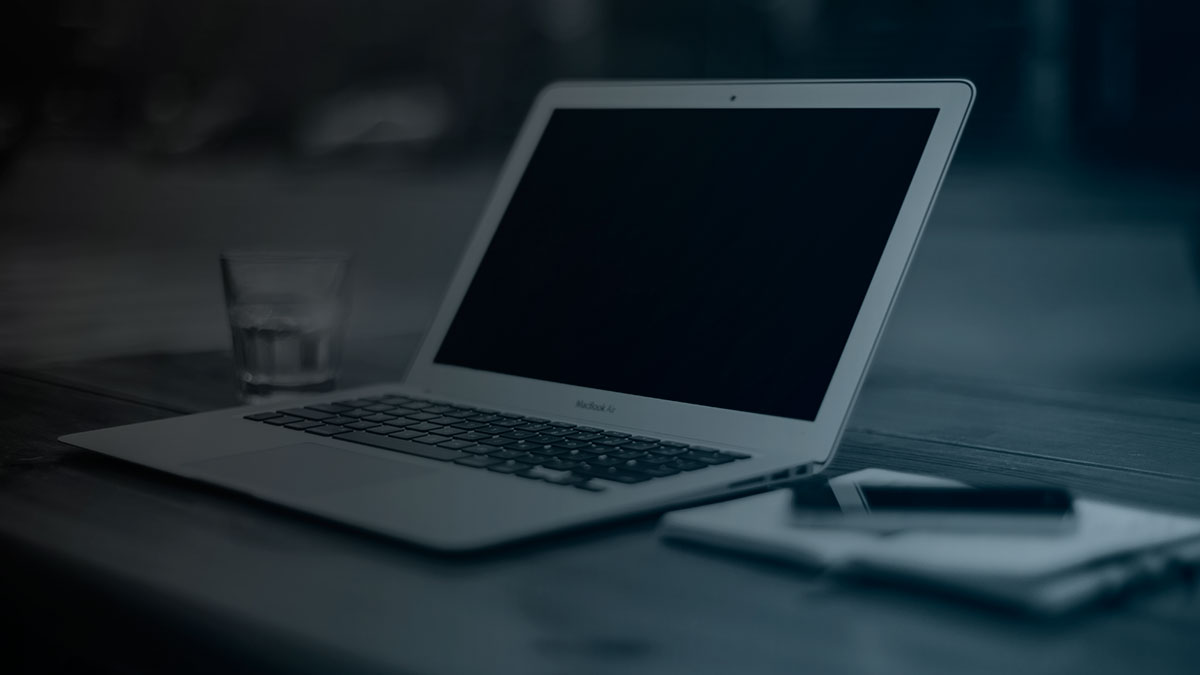
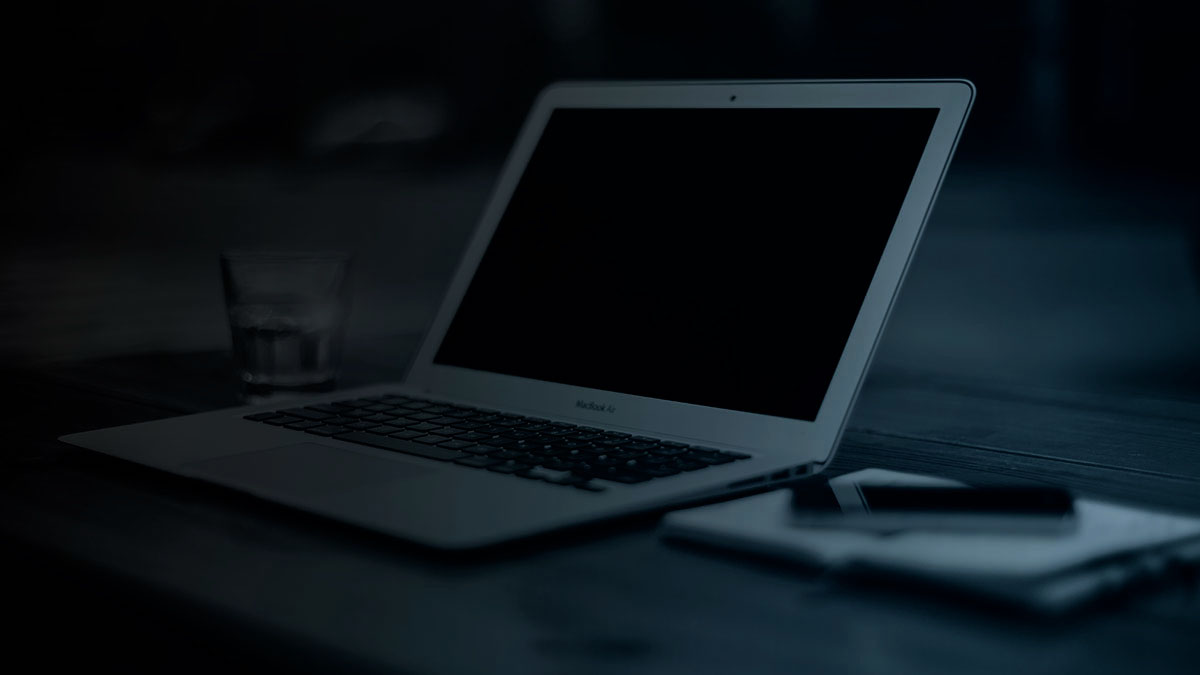
Changes in background images and styles for different devices

diff --git a/index.html b/index.html
@@ -25,23 +25,24 @@
 <!--banner-->
 <div id="top" class="banner">
 	<div class="container">
-		<div class="col-md-6 col-sm-12 col-xs-12 b-part1">
-			<img src="images/Personal_Profile_cropped.jpg" alt=" Utsav Dholakia " />
+		<div class="col-md-offset-6 col-sm-offset-6 col-xs-offset-8 b-part1">
+			<!--<img src="images/Personal_Profile_cropped.jpg" alt=" Utsav Dholakia " />-->
 			<h1>Utsav Dholakia</h1>
 			<h2>Software Developer</h2>
+			<a href="https://www.linkedin.com/in/utsavd" target="_blank"><i class="fa fa-linkedin" aria-hidden="true"></i></a>
+			<a href="https://github.com/utsav-dholakia" target="_blank"><i class="fa fa-github" aria-hidden="true"></i></a>
+			<a href="mailto:utsav.dholakia@outlook.com" target="_blank"><i class="fa fa-envelope" aria-hidden="true"></i></a>
 		</div>
-		<div class="col-md-3 col-sm-6 col-xs-6 b-part2">
+		<!--<div class="col-md-3 col-sm-6 col-xs-6 b-part2">
 			<h3>Contact</h3>
 			<h4><a href="mailto:utsav.dholakia@outlook.com">utsav.dholakia@outlook.com</a></h4>
 			<h4 class="agile"><a href="tel:+1-469-734-5749">+1 (469)734-5749</a></h4>
 			<h4>Dallas,TX</a></h4>
-		</div>
-		<div class="col-md-3 col-sm-6 col-xs-6 b-part3">
-			<h3>Follow</h3>
-			<a href="https://www.linkedin.com/in/utsavd" target="_blank"><i class="fa fa-linkedin" aria-hidden="true"></i></a>
-			<a href="https://github.com/utsav-dholakia" target="_blank"><i class="fa fa-github" aria-hidden="true"></i></a>
-			<a href="https://www.facebook.com/utsav.dholakia" target="_blank"><i class="fa fa-facebook" aria-hidden="true"></i></a>
-		</div>
+		</div>-->
+			<!--<div class="col-md-offset-6 col-sm-offset-6 col-xs-offset-8 b-part3">
+
+		<a href="https://www.facebook.com/utsav.dholakia" target="_blank"><i class="fa fa-facebook" aria-hidden="true"></i></a>
+		</div>-->
 		<!--<div class="clearfix"></div>
 		<div class="scrollButton" style="float:right"><a href="#aboutMe" class="smoothScroll"><i class="fa fa-arrow-circle-down" aria-hidden="true"></i></a></div>-->
 	</div>
@@ -434,44 +435,6 @@
 		</div>
 	</div>
 -->
-<!-- //blog -->
- <div class="modal fade" id="myModal" role="dialog">
-    <div class="modal-dialog">
-		<div class="modal-content">
-			<div class="modal-header">
-				 <button type="button" class="close" data-dismiss="modal">&times;</button>
-				 <h4 class="modal-title">Contrary to popular belief</h4>
-			</div>
-			<div class="modal-body">
-					<img src="images/b1.jpg "alt=" " />
-				  <p>Lorem Ipsum is simply dummy text of the printing and typesetting industry. Lorem Ipsum has been the industry's standard dummy text ever since the 1500s, when an unknown printer took a galley of type and scrambled it to make a type specimen book. It has survived not only five centuries, but also the leap into electronic typesetting, remaining essentially unchanged. It was popularised in the 1960s with the release.</p>
-			</div>
-			<div class="modal-footer">
-				  <button type="button" class="btn btn-default" data-dismiss="modal">Close</button>
-			 </div>
-
-		</div>
-	</div>
-</div>
-
- <div class="modal fade" id="myModal2" role="dialog">
-    <div class="modal-dialog">
-		<div class="modal-content">
-			<div class="modal-header">
-				 <button type="button" class="close" data-dismiss="modal">&times;</button>
-				 <h4 class="modal-title">The standard chunk</h4>
-			</div>
-			<div class="modal-body">
-					<img src="images/b2.jpg "alt=" " />
-				  <p>Lorem Ipsum is simply dummy text of the printing and typesetting industry. Lorem Ipsum has been the industry's standard dummy text ever since the 1500s, when an unknown printer took a galley of type and scrambled it to make a type specimen book. It has survived not only five centuries, but also the leap into electronic typesetting, remaining essentially unchanged. It was popularised in the 1960s with the release.</p>
-			</div>
-			<div class="modal-footer">
-				  <button type="button" class="btn btn-default" data-dismiss="modal">Close</button>
-			 </div>
-
-		</div>
-	</div>
-</div>
 <!--contact-->
 <div id="contact" class="contact">
 	<div class="container">

diff --git a/css/style.css b/css/style.css
@@ -67,9 +67,9 @@ img {
 /*-- banner --*/
 .banner{
 	padding:95px 0px;
-	/*background:url(../images/banner6.jpg) no-repeat 0px 0px;*/
+	background:url(../images/Personal_Profile_cover1.JPG) no-repeat 0px 0px;
 	background-size:cover;
-	min-height:350px;
+	min-height:400px;
 	background-color: #722;
 }
 .b-part1{
@@ -80,19 +80,20 @@ img {
 	border-radius: 25%;
 }
 .b-part1 h1{
-	font-size:22px;
+	font-size:42px;
 	color:#fff;
 	margin-top:15px;
 }
 .b-part1 h2{
-	font-size:16px;
+	font-size:24px;
 	color:#fff;
 	margin-top:10px;
 }
 .b-part2 h3,.b-part3 h3,.b-part4 h3{
 	color:#fff;
-	font-size:28px;
-	margin-bottom:25px;
+	font-size:20px;
+	margin-top:30px;
+	margin-bottom: 10px;
 }
 .b-part2 h4{
 	font-size:14px;
@@ -108,13 +109,13 @@ h4.agile{
 .b-part3{
 	text-align:center;
 }
-.b-part3 .fa {
+.b-part1 .fa {
     color: #fff;
     font-size: 20px;
     padding: 10px;
     border: 2px solid #fff;
-    width: 21%;
-    margin: 0px 8px;
+    /*width: 15%;*/
+    margin: 20px 8px;
     text-align: center;
 	-webkit-transition: all 0.5s;
     -moz-transition: all 0.5s;
@@ -122,21 +123,26 @@ h4.agile{
     -o-transition: all 0.5s;
     transition: all 0.5s;
 }
-.b-part3 .fa-facebook:hover{
+.b-part1 .fa-facebook:hover{
 	color:#ffffff;
 	background-color: #3b5998;
 	border: 2px solid #3b5998;
 }
-.b-part3 .fa-linkedin:hover{
+.b-part1 .fa-linkedin{
 	color:#ffffff;
 	background-color: #007bb6;
 	border: 2px solid #007bb6;
 }
-.b-part3 .fa-github:hover{
+.b-part1 .fa-github{
 	background-color: #000;
 	border: 2px solid #000;
 }
-.b-part3 .fa-facebook,.b-part3 .fa-linkedin,.b-part3 .fa-pinterest{
+.b-part1 .fa-envelope{
+	color:#ffffff;
+	background-color: #3b5998;
+	border: 2px solid #3b5998;
+}
+.b-part1 .fa-facebook,.b-part1 .fa-linkedin,.b-part1 .fa-envelope,.b-part1  .fa-github{
 	margin-bottom:20px
 }
 .b-part4{
@@ -170,6 +176,13 @@ h4.agile{
 	color:#fff;
 	font-size:17px;
 	margin-top:35px;
+}
+.b-part1{
+	background-color: #00000082;
+	padding-top: 10px;
+}
+.banner h1, .banner h2, .banner h3, .banner h4{
+	color: #fff8dc;
 }
 /*-- //banner --*/
 
@@ -350,7 +363,7 @@ label.line {
     /*min-height: 533px;*/
     position: relative;
     padding: 7em 0 7em 0;
-		color: #fff;
+		color: #000;
 }
 .projects h3{
 	font-size: 36px;
@@ -680,7 +693,7 @@ h4.modal-title {
 	/*background:url('../images/contactbg.jpg') no-repeat 0px 0px;*/
 	background-size:cover;
 	/*background-color: #69a2b9;*/
-	background-color: #722;
+	background-color: #294984;
 }
 .contact h3{
 	color:#fff;
@@ -779,7 +792,7 @@ input[type="submit"]:hover{
 		font-size: 25px;
 	}
 	.b-part1 h2 {
-		font-size: 20px;
+		font-size: 15px;
 	}
 	.b-part2 h3, .b-part3 h3, .b-part4 h3 {
 		font-size: 20px;
@@ -880,7 +893,7 @@ input[type="submit"]:hover{
 }
 @media (max-width:768px) {
 	.b-part1{
-		margin-bottom: 15px;
+		padding: 15px 0 15px 0;
 	}
 	/*.b-part1 h1 {
 		font-size: 25px;
@@ -1152,6 +1165,9 @@ input[type="submit"]:hover{
 	}
 }
 @media (max-width:384px) {
+	.banner{
+		margin-left: -25px;
+	}
 	.project-grid p {
 		font-size: 1.1em;
 	}
@@ -1166,6 +1182,9 @@ input[type="submit"]:hover{
 	}
 }
 @media (max-width:375px) {
+	.banner{
+		margin-left: -25px;
+	}
 	.about h3, .skills h3, .portfolio h3, .blog h3, .contact h3 {
 		font-size: 30px;
 	}
@@ -1186,6 +1205,10 @@ input[type="submit"]:hover{
 	/*.b-part1, .b-part2, .b-part3, .b-part4 {
 		height: 140px;
 	}*/
+	.banner{
+		margin-left: -65px;
+	}
+
 	.b-part1 h1 {
     	font-size: 20px;
 	}
